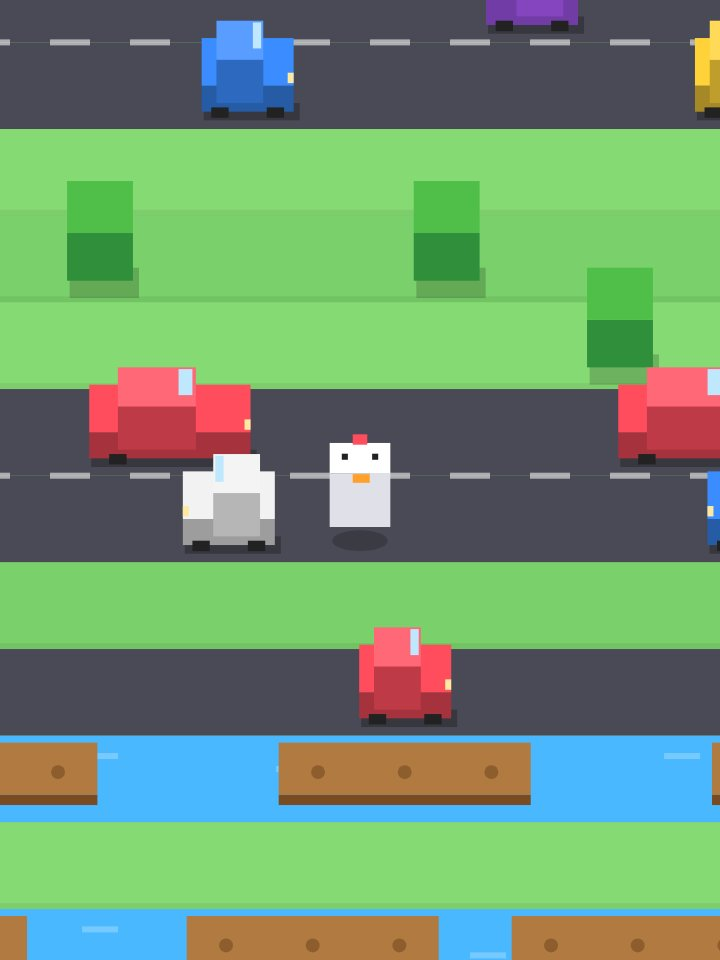
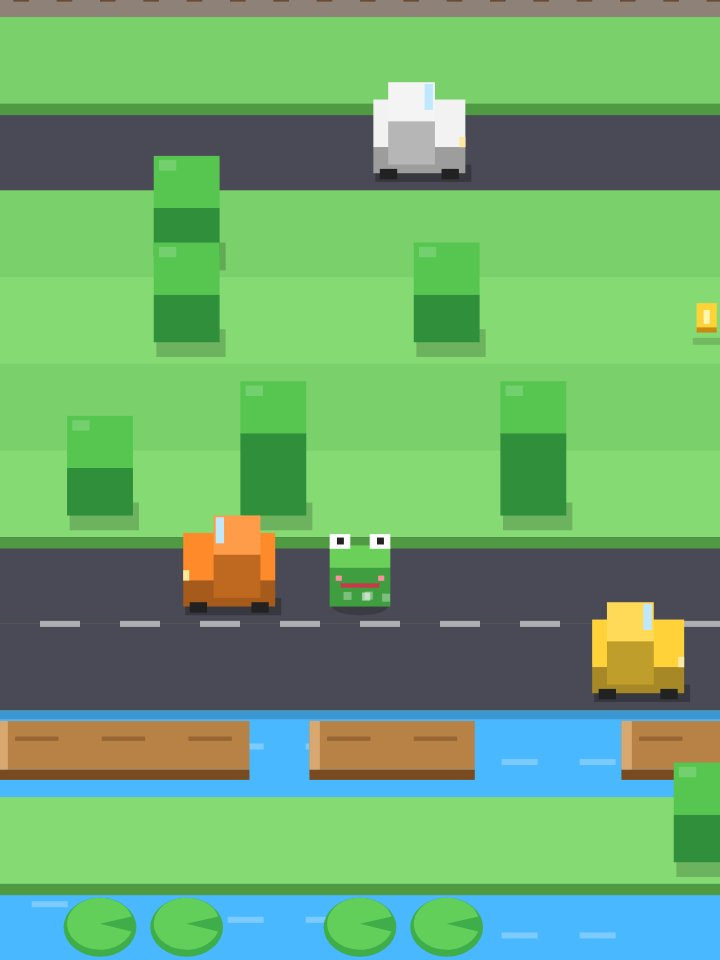
Hoppy Lane v2: coins + 6 unlockable characters, trains, lily pads, juice, landscape support
Claude-Session: https://claude.ai/code/session_01VuDiQoiwkAwkour2auYRX7

diff --git a/hoppy-lane/index.html b/hoppy-lane/index.html
@@ -10,63 +10,115 @@
 *{box-sizing:border-box;-webkit-tap-highlight-color:transparent;user-select:none;-webkit-user-select:none}
 html,body{margin:0;height:100%;background:#7ad06a;color:#fff;font-family:"Rubik","M PLUS Rounded 1c",system-ui,sans-serif;overflow:hidden;touch-action:none}
 #cv{position:fixed;inset:0;width:100%;height:100%;display:block}
-.over{position:fixed;inset:0;display:flex;flex-direction:column;align-items:center;justify-content:center;gap:14px;background:rgba(20,40,20,.45);text-align:center;padding:24px}
+.over{position:fixed;inset:0;display:flex;flex-direction:column;align-items:center;justify-content:center;gap:12px;background:rgba(20,40,20,.42);text-align:center;padding:24px}
 .over[hidden]{display:none}
 .over h1{margin:0;font-size:clamp(50px,15vw,84px);line-height:.92;font-weight:900;font-style:italic;color:#fff;text-shadow:0 5px 0 #2a6a2a,0 8px 18px rgba(0,0,0,.35)}
 .over h1 small{display:block;font-size:.62em;color:#ffe14a;text-shadow:0 5px 0 #a86a10,0 8px 18px rgba(0,0,0,.35)}
-.over p{margin:0;max-width:340px;line-height:1.6;font-size:16px;color:#fff;text-shadow:0 1px 4px rgba(0,0,0,.6)}
-.btn{font:inherit;font-weight:900;font-size:22px;letter-spacing:1px;border:3px solid #fff;border-radius:18px;padding:14px 40px;background:linear-gradient(#ffd04a,#ff9a2a);color:#fff;text-shadow:0 2px 0 #a8500a;box-shadow:0 6px 0 #a8500a;cursor:pointer;min-width:220px}
+.over h2{margin:0;font-size:30px;font-weight:900;font-style:italic;text-shadow:0 3px 0 #2a6a2a}
+.over p{margin:0;max-width:360px;line-height:1.6;font-size:15px;color:#fff;text-shadow:0 1px 4px rgba(0,0,0,.7)}
+.btn{font:inherit;font-weight:900;font-size:22px;letter-spacing:1px;border:3px solid #fff;border-radius:18px;padding:13px 36px;background:linear-gradient(#ffd04a,#ff9a2a);color:#fff;text-shadow:0 2px 0 #a8500a;box-shadow:0 6px 0 #a8500a;cursor:pointer;min-width:230px}
 .btn:active{transform:translateY(3px);box-shadow:0 2px 0 #a8500a}
+.btn.sub{font-size:17px;padding:10px 24px;background:linear-gradient(#5ac8ff,#2a86e0);text-shadow:0 2px 0 #1a4a8a;box-shadow:0 5px 0 #1a4a8a}
+.btn:disabled{opacity:.6}
+.coins{display:inline-flex;align-items:center;gap:6px;font-weight:900;font-size:20px;background:rgba(0,0,0,.3);padding:5px 14px;border-radius:999px}
+.coins i{width:16px;height:16px;background:#ffd23a;border:2px solid #c88a10;border-radius:3px;display:inline-block}
+#grid{display:grid;grid-template-columns:repeat(3,1fr);gap:10px;max-width:360px;width:100%}
+.ch{font:inherit;border:3px solid rgba(255,255,255,.5);border-radius:14px;background:rgba(255,255,255,.16);color:#fff;padding:6px 4px 8px;cursor:pointer;display:flex;flex-direction:column;align-items:center;gap:2px}
+.ch canvas{width:72px;height:72px}
+.ch b{font-size:14px}.ch span{font-size:12px;font-weight:700;opacity:.9}
+.ch.sel{border-color:#ffe14a;background:rgba(255,225,74,.25)}
+.ch.lock canvas{filter:brightness(.25)}
+.ch.shake{animation:sh .3s}@keyframes sh{25%{transform:translateX(-5px)}75%{transform:translateX(5px)}}
 </style>
 </head>
 <body>
 <canvas id="cv"></canvas>
-<div class="over" id="title"><h1>HOPPY<small>LANE</small></h1><p id="howto"></p><button class="btn" id="play" type="button">PLAY</button></div>
-<div class="over" id="end" hidden><h1 id="endT" style="font-size:clamp(64px,20vw,110px)">0</h1><p id="endP"></p><button class="btn" id="cont" type="button" hidden></button><button class="btn" id="again" type="button"></button></div>
+<div class="over" id="title"><h1>HOPPY<small>LANE</small></h1><span class="coins"><i></i><b class="cn">0</b></span><p id="howto"></p><button class="btn" id="play" type="button">PLAY</button><button class="btn sub" id="chars" type="button"></button></div>
+<div class="over" id="shop" hidden><h2 id="shopT"></h2><span class="coins"><i></i><b class="cn">0</b></span><div id="grid"></div><button class="btn" id="shopOk" type="button">OK</button></div>
+<div class="over" id="end" hidden><h1 id="endT" style="font-size:clamp(64px,20vw,110px)">0</h1><p id="endP"></p><button class="btn" id="cont" type="button" hidden></button><button class="btn" id="again" type="button"></button><button class="btn sub" id="chars2" type="button"></button></div>
 <script>
 "use strict";
 var JA=(navigator.language||'').slice(0,2)==='ja';
-var TX=JA?{how:'タップで前へぴょん！左右・後ろはスワイプ（矢印キー）。<br>車をよけて、川は丸太に乗ってわたろう。<br>ぐずぐずしてるとワシに連れていかれるよ！',play:'あそぶ',again:'もういちど',best:'ベスト',newb:'ベスト更新！',cont:'▶ 広告を見て続ける',car:'ひかれた！',water:'ドボン！',eagle:'ワシにつかまった！'}
- :{how:'Tap to hop forward! Swipe (or arrow keys) to go sideways or back.<br>Dodge the cars and ride the logs across rivers.<br>Dawdle too long and the eagle gets you!',play:'PLAY',again:'AGAIN',best:'BEST',newb:'New best!',cont:'▶ Watch ad: continue',car:'SPLAT!',water:'SPLASH!',eagle:'THE EAGLE GOT YOU!'};
+var TX=JA?{how:'タップで前へぴょん！左右・後ろはスワイプ（矢印キー）。<br>車と電車をよけて、川は丸太やハスの葉でわたろう。<br>コインを集めて新しいキャラをゲット！',play:'あそぶ',again:'もういちど',best:'ベスト',newb:'ベスト更新！',cont:'▶ 広告を見て続ける',car:'ひかれた！',train:'電車にひかれた！',water:'ドボン！',eagle:'ワシにつかまった！',chars:'キャラクター',got:'コイン',sel:'つかう',use:'つかってる',na:'広告を読み込めませんでした'}
+ :{how:'Tap to hop forward! Swipe (or arrow keys) to go sideways or back.<br>Dodge cars and trains, cross rivers on logs and lily pads.<br>Collect coins to unlock new characters!',play:'PLAY',again:'AGAIN',best:'BEST',newb:'New best!',cont:'▶ Watch ad: continue',car:'SPLAT!',train:'HIT BY A TRAIN!',water:'SPLASH!',eagle:'THE EAGLE GOT YOU!',chars:'CHARACTERS',got:'Coins',sel:'Select',use:'In use',na:'Ad not available'};
 var $=function(i){return document.getElementById(i);};
-$('howto').innerHTML=TX.how;$('play').textContent=TX.play;$('again').textContent=TX.again;$('cont').textContent=TX.cont;
+$('howto').innerHTML=TX.how;$('play').textContent=TX.play;$('again').textContent=TX.again;$('cont').textContent=TX.cont;$('chars').textContent=$('chars2').textContent=TX.chars;$('shopT').textContent=TX.chars;
 var store={get:function(k,f){try{var v=localStorage.getItem('hl-'+k);return v==null?f:JSON.parse(v);}catch(e){return f;}},set:function(k,v){try{localStorage.setItem('hl-'+k,JSON.stringify(v));}catch(e){}}};
-var best=store.get('best',0);
-var COLS=9,HALF=4,cv=$('cv'),g=cv.getContext('2d'),W,H,DPR,C;
-var rows={},pl,camRow=0,score=0,state='title',t=0,used=false,games=0,deathKind='',FX=[],eagleT=0;
-function fit(){DPR=Math.min(2,devicePixelRatio||1);W=innerWidth;H=innerHeight;cv.width=W*DPR;cv.height=H*DPR;C=Math.min(W/COLS,H/11);}
+var best=store.get('best',0),coins=store.get('coins',0),owned=store.get('own',['chick']),sel=store.get('sel','chick');
+var COLS=9,HALF=4,VH=6,cv=$('cv'),g=cv.getContext('2d'),W,H,DPR,C;
+var rows={},pl,camRow=0,score=0,state='title',t=0,used=false,games=0,deathKind='',FX=[],eagleT=0,shake=0,runCoins=0,queued=null;
+function fit(){DPR=Math.min(2,devicePixelRatio||1);W=innerWidth;H=innerHeight;cv.width=W*DPR;cv.height=H*DPR;C=Math.min(W/COLS,H/11);VH=Math.ceil(W/C/2)+1;}
 addEventListener('resize',fit);
+function showCoins(){[].forEach.call(document.querySelectorAll('.cn'),function(e){e.textContent=coins;});}
 // ---- audio ----
 var AC=null,MUTED=false;function tone(f,d,type,vol,slide){if(MUTED)return;try{AC=AC||new (window.AudioContext||window.webkitAudioContext)();var o=AC.createOscillator(),v=AC.createGain(),s=AC.currentTime;o.type=type||'square';o.frequency.setValueAtTime(f,s);o.frequency.exponentialRampToValueAtTime(f*(slide||1.4),s+d);v.gain.setValueAtTime(vol||0.04,s);v.gain.exponentialRampToValueAtTime(0.0001,s+d);o.connect(v);v.connect(AC.destination);o.start(s);o.stop(s+d);}catch(e){}}
+// ---- characters ----
+var CH=[{id:'chick',ja:'ひよこ',en:'Chick',cost:0,b:'#ffffff',f:'#e2e2ea'},{id:'frog',ja:'カエル',en:'Frog',cost:40,b:'#6ad05a',f:'#3f9f40'},{id:'pig',ja:'ブタ',en:'Pig',cost:80,b:'#ffb8cc',f:'#ec8eaa'},
+ {id:'panda',ja:'パンダ',en:'Panda',cost:120,b:'#ffffff',f:'#dcdce4'},{id:'cat',ja:'ネコ',en:'Cat',cost:160,b:'#ffaa50',f:'#e47e22'},{id:'robot',ja:'ロボ',en:'Robot',cost:250,b:'#b4c0d0',f:'#7f8b9e'}];
+var CHM={};CH.forEach(function(c){CHM[c.id]=c;});if(!CHM[sel])sel='chick';
+function R(x,y,w,h,c){g.fillStyle=c;g.fillRect(x,y,w,h);}
+function tri(a,b,c2,d,e,f,col){g.fillStyle=col;g.beginPath();g.moveTo(a,b);g.lineTo(c2,d);g.lineTo(e,f);g.closePath();g.fill();}
+function drawChar(id,x,y,s,dir,sq){var c=CHM[id]||CH[0],bw=s*0.7,bx=x+s*0.15,gy=y+s*0.8,h=s*0.5*sq,d=s*0.26,ty=gy-h-d,fy=gy-h;
+  R(bx,fy,bw,h,c.f);R(bx,ty,bw,d,c.b);
+  var ox=dir===1?bw*0.12:dir===3?-bw*0.12:0,e=s*0.08,ey=fy+h*0.16,ex1=bx+bw*0.2+ox,ex2=bx+bw*0.8-e+ox;
+  function eyes(col){R(ex1,ey,e,e,col);R(ex2,ey,e,e,col);}
+  switch(c.id){
+  case 'chick':R(bx+bw*0.36,ty-s*0.1,bw*0.28,s*0.12,'#ff4d5e');eyes('#222');R(bx+bw*0.36+ox*1.4,fy+h*0.42,bw*0.28,s*0.1,'#ffa02a');break;
+  case 'frog':R(bx,ty-s*0.13,bw*0.34,s*0.17,'#fff');R(bx+bw*0.66,ty-s*0.13,bw*0.34,s*0.17,'#fff');R(bx+bw*0.12+ox*0.5,ty-s*0.09,s*0.08,s*0.08,'#222');R(bx+bw*0.78+ox*0.5,ty-s*0.09,s*0.08,s*0.08,'#222');R(bx+bw*0.18+ox,fy+h*0.4,bw*0.64,s*0.05,'#c83a4a');R(bx+bw*0.1,fy+h*0.2,bw*0.1,s*0.06,'#ff8fa0');R(bx+bw*0.8,fy+h*0.2,bw*0.1,s*0.06,'#ff8fa0');break;
+  case 'pig':R(bx,ty-s*0.08,bw*0.24,s*0.11,'#ec8eaa');R(bx+bw*0.76,ty-s*0.08,bw*0.24,s*0.11,'#ec8eaa');eyes('#222');R(bx+bw*0.3+ox*1.3,fy+h*0.38,bw*0.4,s*0.16,'#ff92b4');R(bx+bw*0.38+ox*1.3,fy+h*0.46,s*0.05,s*0.06,'#a04060');R(bx+bw*0.56+ox*1.3,fy+h*0.46,s*0.05,s*0.06,'#a04060');break;
+  case 'panda':R(bx-s*0.02,ty-s*0.09,bw*0.26,s*0.13,'#222');R(bx+bw*0.78,ty-s*0.09,bw*0.26,s*0.13,'#222');R(ex1-s*0.04,ey-s*0.03,s*0.16,s*0.15,'#222');R(ex2-s*0.04,ey-s*0.03,s*0.16,s*0.15,'#222');R(ex1+s*0.02,ey+s*0.01,s*0.05,s*0.05,'#fff');R(ex2+s*0.02,ey+s*0.01,s*0.05,s*0.05,'#fff');R(bx+bw*0.44+ox,fy+h*0.5,s*0.08,s*0.06,'#222');R(bx,fy+h*0.75,bw,h*0.25,'#333');break;
+  case 'cat':tri(bx,ty+1,bx+bw*0.3,ty+1,bx+bw*0.08,ty-s*0.16,c.f);tri(bx+bw,ty+1,bx+bw*0.7,ty+1,bx+bw*0.92,ty-s*0.16,c.f);R(bx+bw*0.3,ty,s*0.06,d,'#e47e22');R(bx+bw*0.6,ty,s*0.06,d,'#e47e22');eyes('#2a7a3a');R(bx+bw*0.45+ox,fy+h*0.4,s*0.07,s*0.05,'#ff7a9a');R(bx+bw*0.05,fy+h*0.48,bw*0.18,s*0.025,'#fff');R(bx+bw*0.77,fy+h*0.48,bw*0.18,s*0.025,'#fff');break;
+  case 'robot':R(bx+bw*0.48,ty-s*0.22,s*0.04,s*0.22,'#555');R(bx+bw*0.43,ty-s*0.29,s*0.12,s*0.1,(Math.floor(t*3)%2)?'#ff4d5e':'#ff9aa8');R(bx+bw*0.1+ox,ey-s*0.03,bw*0.8,s*0.15,'#222');R(ex1,ey,e,e*0.8,'#4af0ff');R(ex2,ey,e,e*0.8,'#4af0ff');R(bx+bw*0.25,fy+h*0.55,bw*0.5,s*0.05,'#556');break;}}
 // ---- lanes ----
-var CARC=['#ff4d5e','#3a8cff','#ffd23a','#b05cff','#ff8a2a','#f2f2f2'];
-function makeRow(r){if(rows[r])return rows[r];var row;if(r<3){row={type:'grass',trees:r<0?allTrees():edgeTrees()};}
-  else{var prev=rows[r-1],roll=Math.random(),diff=Math.min(1,r/120);
-    if(prev&&prev.type==='water'&&prev.run>=3)roll=0;if(prev&&prev.type==='road'&&prev.run>=4)roll=0;
-    var type=roll<0.32?'grass':roll<0.32+0.43?'road':'water';row={type:type,run:(prev&&prev.type===type?prev.run+1:1)};
-    if(type==='grass')row.trees=randTrees();
-    if(type==='road'){var dir=Math.random()<0.5?1:-1,sp=(1.6+Math.random()*1.6+diff*2.2)*dir,w=Math.random()<0.25?2:1.2,n=Math.max(1,Math.round(2+Math.random()*1.5-(w>1.5?1:0))),gap=(COLS+6)/n;row.speed=sp;row.objs=[];for(var i=0;i<n;i++)row.objs.push({x:-HALF-3+i*gap+Math.random()*gap*0.4,w:w,col:CARC[Math.floor(Math.random()*CARC.length)]});}
-    if(type==='water'){var d2=prev&&prev.type==='water'?-Math.sign(prev.speed):(Math.random()<0.5?1:-1),sp2=(0.9+Math.random()*1.1+diff*0.8)*d2,n2=3+Math.floor(Math.random()*2),gap2=(COLS+6)/n2;row.speed=sp2;row.objs=[];for(var j=0;j<n2;j++)row.objs.push({x:-HALF-3+j*gap2,w:2+Math.floor(Math.random()*2)});}}
+var CARC=['#ff4d5e','#3a8cff','#ffd23a','#b05cff','#ff8a2a','#f2f2f2','#2ac4a0'];
+function span(){return 2*VH+6;}
+function makeRow(r){if(rows[r])return rows[r];var row,prev=rows[r-1];
+  if(r<3){row={type:'grass',trees:r<0?allTrees():edgeTrees()};}
+  else{var roll=Math.random(),diff=Math.min(1,r/150),type;
+    if(roll<0.3)type='grass';else if(roll<0.68)type='road';else if(roll<0.9||r<12)type='water';else type='rail';
+    if(prev&&prev.type===type&&((type==='water'&&prev.run>=3)||(type==='road'&&prev.run>=4)||type==='rail'))type='grass';
+    row={type:type,run:(prev&&prev.type===type?prev.run+1:1)};
+    if(type==='grass'){row.trees=randTrees();if(prev&&prev.pads)prev.objs.forEach(function(o){delete row.trees[o.x];});if(Math.random()<0.28)row.coin=freeCol(row.trees);}
+    if(type==='road'){var dir=Math.random()<0.5?1:-1,sp=(1.5+Math.random()*1.6+diff*2.4)*dir,w=Math.random()<0.22?2.1:1.2,n=Math.max(1,Math.round(2+Math.random()*1.5-(w>1.5?1:0))),gp=span()/n;row.speed=sp;row.objs=[];for(var i=0;i<n;i++)row.objs.push({x:-VH-3+i*gp+Math.random()*gp*0.4,w:w,col:CARC[Math.floor(Math.random()*CARC.length)]});if(Math.random()<0.15)row.coin=Math.floor(Math.random()*COLS)-HALF;}
+    if(type==='water'){if(!(prev&&prev.pads)&&Math.random()<0.3){row.pads=true;row.speed=0;row.objs=[];var cs=[],m=3+Math.floor(Math.random()*3);while(cs.length<m){var c=Math.floor(Math.random()*COLS)-HALF;if(cs.indexOf(c)<0&&!(prev&&prev.trees&&prev.trees[c]&&cs.length<1))cs.push(c);}cs.forEach(function(c){row.objs.push({x:c,w:1,pad:true});});}
+      else{var d2=prev&&prev.type==='water'&&prev.speed?-Math.sign(prev.speed):(Math.random()<0.5?1:-1),sp2=(0.9+Math.random()*1.1+diff*0.9)*d2,n2=Math.max(3,Math.round(span()/5))+Math.floor(Math.random()*2),gp2=span()/n2;row.speed=sp2;row.objs=[];for(var j=0;j<n2;j++)row.objs.push({x:-VH-3+j*gp2,w:2+Math.floor(Math.random()*2)});}}
+    if(type==='rail'){row.dir=Math.random()<0.5?1:-1;row.tr={on:false,x:0,w:8};row.tt=1.5+Math.random()*4;}}
   rows[r]=row;return row;}
 function allTrees(){var a={};for(var c=-HALF;c<=HALF;c++)a[c]=1;return a;}
 function edgeTrees(){var a={};a[-HALF]=1;a[HALF]=1;return a;}
-function randTrees(){var a={},n=Math.floor(Math.random()*4);for(var i=0;i<n;i++){var c=-HALF+Math.floor(Math.random()*COLS);if(Math.abs(c)>0||Math.random()<0.4)a[c]=1;}return a;}
+function randTrees(){var a={},n=Math.floor(Math.random()*4);for(var i=0;i<n;i++){var c=-HALF+Math.floor(Math.random()*COLS);if(c!==0||Math.random()<0.4)a[c]=1;}return a;}
+function freeCol(tr){for(var k=0;k<20;k++){var c=Math.floor(Math.random()*COLS)-HALF;if(!tr[c])return c;}return undefined;}
 // ---- game ----
-function reset(){rows={};for(var r=-6;r<30;r++)makeRow(r);pl={c:0,r:0,x:0,y:0,fx:0,fy:0,hop:0,dir:0,dead:false,ride:0};camRow=0;score=0;FX=[];used=false;eagleT=0;state='play';}
-function hop(dc,dr){if(state!=='play'||pl.hop>0)return;var nc=pl.c+dc,nr=pl.r+dr;if(nc<-HALF||nc>HALF){return;}var row=makeRow(nr);if(row.type==='grass'&&row.trees[Math.round(nc)]){pl.dir=dc?(dc>0?1:3):(dr>0?0:2);tone(160,0.05,'square',0.03,0.8);return;}
-  pl.fx=pl.x;pl.fy=pl.r;pl.c=nc;pl.r=nr;pl.hop=1;pl.dir=dc?(dc>0?1:3):(dr>0?0:2);tone(dr>0?520:420,0.06,'square',0.035,1.5);if(nr>score){score=nr;}for(var r=nr;r<nr+25;r++)makeRow(r);}
-function die(kind){if(pl.dead)return;pl.dead=true;deathKind=kind;state='dead';games++;if(kind==='car'){tone(120,0.3,'sawtooth',0.08,0.5);for(var i=0;i<16;i++){var a=Math.random()*6.283;FX.push({x:pl.x,y:pl.r,vx:Math.cos(a)*3,vy:Math.sin(a)*3,l:0.6,c:i%2?'#fff':'#ffe14a'});}}
-  else if(kind==='water'){tone(300,0.4,'sine',0.08,0.4);for(var j=0;j<14;j++){var b=Math.random()*6.283;FX.push({x:pl.x,y:pl.r,vx:Math.cos(b)*2,vy:Math.sin(b)*2,l:0.6,c:'#bfe8ff'});}}else{tone(880,0.5,'sawtooth',0.06,0.5);}
+function reset(){rows={};for(var r=-8;r<30;r++)makeRow(r);pl={c:0,r:0,x:0,y:0,fx:0,fy:0,hop:0,dir:0,dead:false,land:0};camRow=0;score=0;FX=[];used=false;eagleT=0;runCoins=0;queued=null;shake=0;state='play';}
+function hop(dc,dr){if(state!=='play'||pl.dead)return;if(pl.hop>0){queued=[dc,dr];return;}var nc=pl.c+dc,nr=pl.r+dr;pl.dir=dc?(dc>0?1:3):(dr>0?0:2);if(dc&&(Math.round(nc)<-HALF||Math.round(nc)>HALF))return;var row=makeRow(nr);
+  if(row.type==='grass'&&row.trees[Math.round(nc)]){tone(160,0.05,'square',0.03,0.8);pl.land=0.6;return;}
+  if(makeRow(pl.r).type!=='water')nc=Math.round(nc);
+  pl.fx=pl.x;pl.fy=pl.y;pl.c=nc;pl.r=nr;pl.hop=1;tone(dr>0?520:420,0.06,'square',0.035,1.5);if(nr>score)score=nr;for(var r=nr;r<nr+25;r++)makeRow(r);}
+function landed(){var row=makeRow(pl.r);pl.land=1;if(row.type==='water'){if(objAt(row,pl.x)){tone(260,0.06,'sine',0.04,1.2);}}else{pl.x=Math.round(pl.x);pl.c=pl.x;for(var i=0;i<5;i++)FX.push({x:pl.x+(Math.random()-0.5)*0.6,y:pl.r-0.2,vx:(Math.random()-0.5)*1.5,vy:Math.random()*0.8,l:0.3,c:'rgba(255,255,255,.7)',s:4});}
+  if(row.coin!==undefined&&row.coin===Math.round(pl.x)){row.coin=undefined;coins++;runCoins++;store.set('coins',coins);tone(990,0.08,'square',0.04,1.6);setTimeout(function(){tone(1320,0.1,'square',0.035,1.3);},70);FX.push({x:pl.x,y:pl.r+0.6,vx:0,vy:1.6,l:0.7,txt:'+1'});}
+  if(queued){var q=queued;queued=null;hop(q[0],q[1]);}}
+function die(kind){if(pl.dead)return;pl.dead=true;deathKind=kind;state='dead';games++;queued=null;
+  if(kind==='car'||kind==='train'){shake=0.35;tone(120,0.3,'sawtooth',0.08,0.5);for(var i=0;i<18;i++){var a=Math.random()*6.283;FX.push({x:pl.x,y:pl.y,vx:Math.cos(a)*3.5,vy:Math.sin(a)*3.5,l:0.6,c:i%2?'#fff':(CHM[sel].f),s:6});}}
+  else if(kind==='water'){tone(300,0.4,'sine',0.08,0.4);FX.push({x:pl.x,y:pl.r,ring:1,l:0.8});for(var j=0;j<14;j++){var b=Math.random()*6.283;FX.push({x:pl.x,y:pl.r,vx:Math.cos(b)*2,vy:Math.abs(Math.sin(b))*3,l:0.6,c:'#dff4ff',s:5});}}else{tone(880,0.5,'sawtooth',0.06,0.5);}
   var nb=score>best;if(nb){best=score;store.set('best',best);}
-  setTimeout(function(){var show=function(){$('endT').textContent=score;$('endP').innerHTML=TX[kind]+'<br>'+(nb?TX.newb:TX.best+' '+best);$('cont').hidden=!(CG&&!used&&score>=15);$('cont').disabled=false;$('end').hidden=false;};if(games%2===0)cgAd('midgame',show,show);else show();},900);}
+  setTimeout(function(){var show=function(){showCoins();$('endT').textContent=score;$('endP').innerHTML=TX[kind]+'<br>'+(nb?TX.newb:TX.best+' '+best)+(runCoins?'<br>'+TX.got+' +'+runCoins:'');$('cont').hidden=!(CG&&!used&&score>=15);$('cont').disabled=false;$('cont').textContent=TX.cont;$('end').hidden=false;};if(games%2===0)cgAd('midgame',show,show);else show();},950);}
 $('play').onclick=function(){$('title').hidden=true;reset();};
 $('again').onclick=function(){$('end').hidden=true;reset();};
-$('cont').onclick=function(){var b=this;b.disabled=true;cgAd('rewarded',function(){used=true;var r=pl.r;while(makeRow(r).type!=='grass')r--;var c=0;var tr=makeRow(r).trees;while(tr[c])c++;pl={c:c,r:r,x:c,y:r,fx:c,fy:r,hop:0,dir:0,dead:false};camRow=Math.min(camRow,r-1);eagleT=0;state='play';$('end').hidden=true;},function(){b.textContent=JA?'広告を読み込めませんでした':'Ad not available';});};
+$('cont').onclick=function(){var b=this;b.disabled=true;cgAd('rewarded',function(){used=true;var r=pl.r;while(makeRow(r).type!=='grass')r--;var tr=makeRow(r).trees,c=0;if(tr[c]){c=freeCol(tr)||0;}pl={c:c,r:r,x:c,y:r,fx:c,fy:r,hop:0,dir:0,dead:false,land:0};camRow=Math.min(camRow,r-1);eagleT=0;state='play';$('end').hidden=true;},function(){b.textContent=TX.na;});};
+// ---- shop ----
+var shopFrom='title';
+function openShop(from){shopFrom=from;$(from).hidden=true;buildShop();$('shop').hidden=false;}
+function buildShop(){showCoins();var gr=$('grid');gr.innerHTML='';CH.forEach(function(c){var own=owned.indexOf(c.id)>=0,b=document.createElement('button');b.type='button';b.className='ch'+(sel===c.id?' sel':'')+(own?'':' lock');
+  var cvs=document.createElement('canvas');cvs.width=144;cvs.height=144;var o=g;g=cvs.getContext('2d');g.setTransform(1,0,0,1,0,0);drawChar(c.id,12,22,120,0,1);g=o;
+  b.appendChild(cvs);var nm=document.createElement('b');nm.textContent=JA?c.ja:c.en;b.appendChild(nm);var sp=document.createElement('span');sp.textContent=own?(sel===c.id?TX.use:TX.sel):('● '+c.cost);b.appendChild(sp);
+  b.onclick=function(){if(own){sel=c.id;store.set('sel',sel);tone(660,0.06,'square',0.03,1.3);buildShop();return;}if(coins>=c.cost){coins-=c.cost;owned.push(c.id);sel=c.id;store.set('coins',coins);store.set('own',owned);store.set('sel',sel);tone(880,0.1,'square',0.04,1.5);setTimeout(function(){tone(1320,0.15,'square',0.04,1.2);},90);buildShop();}else{b.classList.remove('shake');void b.offsetWidth;b.classList.add('shake');tone(150,0.08,'square',0.03,0.8);}};gr.appendChild(b);});}
+$('chars').onclick=function(){openShop('title');};$('chars2').onclick=function(){openShop('end');};
+$('shopOk').onclick=function(){$('shop').hidden=true;$(shopFrom).hidden=false;showCoins();};
 // ---- input ----
-var sx,sy,st,down=false;
-cv.addEventListener('pointerdown',function(e){e.preventDefault();down=true;sx=e.clientX;sy=e.clientY;st=performance.now();});
+var sx,sy,down=false;
+cv.addEventListener('pointerdown',function(e){e.preventDefault();down=true;sx=e.clientX;sy=e.clientY;});
 cv.addEventListener('pointerup',function(e){if(!down)return;down=false;var dx=e.clientX-sx,dy=e.clientY-sy;if(Math.max(Math.abs(dx),Math.abs(dy))<24){hop(0,1);return;}if(Math.abs(dx)>Math.abs(dy))hop(dx>0?1:-1,0);else hop(0,dy<0?1:-1);});
-addEventListener('keydown',function(e){var m={ArrowUp:[0,1],KeyW:[0,1],Space:[0,1],ArrowDown:[0,-1],KeyS:[0,-1],ArrowLeft:[-1,0],KeyA:[-1,0],ArrowRight:[1,0],KeyD:[1,0]}[e.code];if(m){e.preventDefault();hop(m[0],m[1]);}});
+addEventListener('keydown',function(e){var m={ArrowUp:[0,1],KeyW:[0,1],Space:[0,1],ArrowDown:[0,-1],KeyS:[0,-1],ArrowLeft:[-1,0],KeyA:[-1,0],ArrowRight:[1,0],KeyD:[1,0]}[e.code];if(m){e.preventDefault();if(!e.repeat)hop(m[0],m[1]);}});
 // ---- CrazyGames SDK ----
 var CG=null,cgOn=null;
 (function(){var h=location.hostname,q=location.search;if(!/crazygames/.test(h)&&q.indexOf('cg=1')<0&&q.indexOf('crazygames_sandbox')<0)return;var sc=document.createElement('script');sc.src='https://sdk.crazygames.com/crazygames-sdk-v3.js';
@@ -77,45 +129,66 @@ function cgAd(kind,done,fail){if(!CG){if(fail)fail();return;}var st0=state,end=f
 // ---- draw ----
 function sxp(x){return W/2+x*C;}function syp(r){return H*0.68-(r-camRow)*C;}
 function shade(c,f){var a=[1,3,5].map(function(i){return parseInt(c.substr(i,2),16);});return 'rgb('+a.map(function(v){return Math.round(f>0?v+(255-v)*f:v*(1+f));}).join(',')+')';}
-function block(x,y,w,d,h,top,front){// x,y = screen top-left of footprint (top face), w,d footprint px, h height px
-  g.fillStyle=front;g.fillRect(x,y-h+d,w,h);g.fillStyle=top;g.fillRect(x,y-h,w,d);}
-function drawRow(r){var row=rows[r];if(!row)return;var y=syp(r)-C/2,x0=sxp(-HALF-0.5);
-  if(row.type==='grass'){g.fillStyle=r%2?'#7ad06a':'#86da74';g.fillRect(0,y,W,C);g.fillStyle='rgba(0,0,0,.06)';g.fillRect(0,y+C-3,W,3);}
-  else if(row.type==='road'){g.fillStyle='#4a4a56';g.fillRect(0,y,W,C);var nx=rows[r+1];if(nx&&nx.type==='road'){g.fillStyle='rgba(255,255,255,.55)';for(var xx=((t*0)%40)-40;xx<W;xx+=40)g.fillRect(xx,y-1.5,20,3);}}
-  else{g.fillStyle='#4ab8ff';g.fillRect(0,y,W,C);g.fillStyle='rgba(255,255,255,.25)';for(var k=0;k<5;k++){var wx=((k*97+t*20*Math.sign(row.speed||1))%(W+60)+W+60)%(W+60)-30;g.fillRect(wx,y+C*(0.2+0.15*(k%3)),18,3);}}
-  // dark outside area
-  g.fillStyle='rgba(0,0,0,.25)';g.fillRect(0,y,Math.max(0,x0),C);g.fillRect(sxp(HALF+0.5),y,W,C);}
-function drawRowObjs(r){var row=rows[r];if(!row)return;var y=syp(r)-C/2;
-  if(row.type==='grass'){Object.keys(row.trees).forEach(function(k){var c=+k,x=sxp(c)-C/2;g.fillStyle='rgba(0,0,0,.18)';g.fillRect(x+C*0.15,y+C*0.6,C*0.8,C*0.35);block(x+C*0.38,y+C*0.55,C*0.24,C*0.18,C*0.25,'#a06a3a','#7a4a20');block(x+C*0.12,y+C*0.15,C*0.76,C*0.6,C*0.55,'#4fbf4a','#2f8f3a');});}
-  if(row.type==='water'){row.objs.forEach(function(o){var x=sxp(o.x)-C/2;block(x+2,y+C*0.2,o.w*C-4,C*0.6,C*0.12,'#b07a40','#7a4a20');g.fillStyle='rgba(90,50,20,.4)';for(var i=0;i<o.w;i++){g.beginPath();g.arc(x+C*(i+0.5),y+C*0.42,C*0.08,0,7);g.fill();}});}
-  if(row.type==='road'){row.objs.forEach(function(o){var x=sxp(o.x)-C/2,w=o.w*C,dir=row.speed>0;g.fillStyle='rgba(0,0,0,.25)';g.fillRect(x+4,y+C*0.7,w-4,C*0.2);block(x+3,y+C*0.25,w-6,C*0.55,C*0.3,o.col,shade(o.col,-0.35));block(x+w*(dir?0.2:0.35),y+C*0.25,w*0.45,C*0.45,C*0.5,shade(o.col,0.15),shade(o.col,-0.25));g.fillStyle='#bfe8ff';g.fillRect(x+w*(dir?0.55:0.37),y+C*0.25-C*0.48,w*0.08,C*0.3);g.fillStyle='#222';g.fillRect(x+w*0.15,y+C*0.75,C*0.2,C*0.12);g.fillRect(x+w*0.85-C*0.2,y+C*0.75,C*0.2,C*0.12);g.fillStyle='#ffe9a0';g.fillRect(dir?x+w-6:x+3,y+C*0.35,3,C*0.12);});}}
-function drawPlayer(){var k=pl.hop,x=sxp(pl.x)-C/2,yr=pl.dead&&deathKind==='water'?pl.r:pl.y,y=syp(yr)-C/2,jump=Math.sin((1-k)*Math.PI)*C*0.35*(k>0?1:0);if(pl.dead&&deathKind==='eagle')return;
-  var sq=pl.dead&&deathKind==='car'?0.25:1;if(pl.dead&&deathKind==='water'){g.globalAlpha=0.5;}
-  g.fillStyle='rgba(0,0,0,.2)';g.beginPath();g.ellipse(x+C/2,y+C*0.75,C*0.32,C*0.12,0,0,7);g.fill();var bw=C*0.7,bx=x+C*0.15,by=y+C*0.3-jump,bh=C*0.62*sq;
-  block(bx,by+C*0.5-bh*0.9,bw,C*0.35,bh,'#ffffff','#e0e0e8');g.fillStyle='#ff4d5e';g.fillRect(bx+bw*0.38,by+C*0.5-bh*0.9-bh-C*0.1,bw*0.24,C*0.12);
-  var fx=pl.dir===1?bw*0.8:pl.dir===3?-bw*0.12:bw*0.38;g.fillStyle='#ffa02a';g.fillRect(bx+fx,by+C*0.5-bh*0.9-bh*0.5+(pl.dir===2?-C*0.1:C*0.05),bw*0.28,C*0.1);g.fillStyle='#222';g.fillRect(bx+bw*0.2,by+C*0.5-bh*0.9-bh*0.8,C*0.07,C*0.07);g.fillRect(bx+bw*0.7,by+C*0.5-bh*0.9-bh*0.8,C*0.07,C*0.07);g.globalAlpha=1;}
-function draw(){g.setTransform(DPR,0,0,DPR,0,0);g.fillStyle='#7ad06a';g.fillRect(0,0,W,H);if(!pl){return;}
-  var top=Math.ceil(camRow+H*0.68/C+2),bot=Math.floor(camRow-(H*0.32)/C-2);for(var r=top;r>=bot;r--){makeRow(r);drawRow(r);}
-  for(var r2=top;r2>=bot;r2--){drawRowObjs(r2);if(Math.round(pl.y)===r2||(pl.dead&&pl.r===r2&&r2===Math.round(pl.y)))drawPlayer();}
-  if(Math.round(pl.y)>top||Math.round(pl.y)<bot)drawPlayer();
-  FX.forEach(function(f){g.globalAlpha=Math.min(1,f.l*2);g.fillStyle=f.c;g.fillRect(sxp(f.x)-3,syp(f.y)-3,6,6);});g.globalAlpha=1;
-  // eagle
-  if(pl.dead&&deathKind==='eagle'){var ek=Math.min(1,eagleT/0.8),ex=sxp(pl.x),ey=syp(pl.r)-H*(1-ek)*0.8;g.fillStyle='#5a3a20';g.beginPath();g.moveTo(ex-C*1.4,ey);g.lineTo(ex,ey-C*0.4);g.lineTo(ex+C*1.4,ey);g.lineTo(ex,ey+C*0.3);g.closePath();g.fill();g.fillStyle='#fff';g.fillRect(ex-C*0.2,ey-C*0.5,C*0.4,C*0.35);g.fillStyle='#ffd23a';g.fillRect(ex-C*0.05,ey-C*0.25,C*0.15,C*0.12);}
-  if(state!=='title'){g.font='900 '+Math.round(Math.min(56,W*0.13))+'px Rubik,sans-serif';g.textAlign='left';g.lineWidth=6;g.strokeStyle='rgba(0,0,0,.35)';g.strokeText(String(score),16,Math.max(60,H*0.08));g.fillStyle='#fff';g.fillText(String(score),16,Math.max(60,H*0.08));g.font='800 15px Rubik,sans-serif';g.lineWidth=4;g.strokeText('★ '+TX.best+' '+best,18,Math.max(84,H*0.08+24));g.fillText('★ '+TX.best+' '+best,18,Math.max(84,H*0.08+24));}}
-function objAt(row,x){for(var i=0;i<row.objs.length;i++){var o=row.objs[i];if(x>o.x-0.5+0.15&&x<o.x-0.5+o.w-0.15)return o;}return null;}
-function tick(dt){t+=dt;FX.forEach(function(f){f.l-=dt;f.x+=f.vx*dt;f.y+=f.vy*dt;});FX=FX.filter(function(f){return f.l>0;});if(!pl)return;
-  // move lane objects
-  for(var r=Math.floor(camRow-6);r<camRow+16;r++){var row=rows[r];if(!row||!row.objs)continue;row.objs.forEach(function(o){o.x+=row.speed*dt;var span=COLS+6;if(row.speed>0&&o.x>HALF+3)o.x-=span;if(row.speed<0&&o.x+o.w<-HALF-3)o.x+=span;});}
-  if(pl.dead){if(deathKind==='eagle')eagleT+=dt;return;}if(state!=='play')return;
-  if(pl.hop>0){pl.hop=Math.max(0,pl.hop-dt/0.12);var e=1-pl.hop;pl.x=pl.fx+(pl.c-pl.fx)*e;pl.y=pl.fy+(pl.r-pl.fy)*e;if(pl.hop===0){pl.x=pl.c;pl.y=pl.r;}}
-  var row=makeRow(pl.r);
-  if(pl.hop===0&&row.type==='water'){var o=objAt(row,pl.x);if(!o){die('water');return;}pl.x+=row.speed*dt;pl.c=pl.x;if(pl.x<-HALF-0.5||pl.x>HALF+0.5){die('water');return;}}
-  else if(pl.hop===0&&row.type!=='water'){var rc=Math.round(pl.x);if(Math.abs(pl.x-rc)>0.01&&row.type!=='water'){pl.x+=(rc-pl.x)*Math.min(1,dt*20);pl.c=rc;}}
-  if(row.type==='road'&&pl.hop<0.5){for(var i=0;i<row.objs.length;i++){var ob=row.objs[i];if(pl.x>ob.x-0.5-0.3&&pl.x<ob.x-0.5+ob.w+0.3-0.6){die('car');return;}}}
-  // camera
-  var target=pl.r-1;camRow+=(Math.max(target,camRow)-camRow)*Math.min(1,dt*4);camRow+=dt*Math.min(0.55,0.25+score/400);if(pl.r<camRow-3.2){die('eagle');}}
+function block(x,y,w,d,h,tp,front){g.fillStyle=front;g.fillRect(x,y-h+d,w,h);g.fillStyle=tp;g.fillRect(x,y-h,w,d);}
+function drawGround(r){var row=rows[r];if(!row)return;var y=syp(r)-C/2;
+  if(row.type==='grass'){R(0,y,W,C,r%2?'#7ad06a':'#86da74');}
+  else if(row.type==='road'){R(0,y,W,C,'#4a4a56');var nx=rows[r+1];if(nx&&nx.type==='road'){g.fillStyle='rgba(255,255,255,.55)';for(var xx=-40+(W/2%40);xx<W;xx+=40)g.fillRect(xx,y-1.5,20,3);}}
+  else if(row.type==='rail'){R(0,y,W,C,'#8d8178');g.fillStyle='#6a4a32';for(var tx=(W/2)%(C*0.5)-C*0.5;tx<W;tx+=C*0.5)g.fillRect(tx,y+C*0.18,C*0.18,C*0.64);R(0,y+C*0.26,W,C*0.07,'#d4d8e0');R(0,y+C*0.66,W,C*0.07,'#d4d8e0');}
+  else{R(0,y,W,C,'#4ab8ff');g.fillStyle='rgba(255,255,255,.28)';for(var k=0;k<7;k++){var wx=((k*137+t*24*Math.sign(row.speed||0.2))%(W+60)+W+60)%(W+60)-30;g.fillRect(wx,y+C*(0.2+0.18*(k%3)),18,3);}}}
+function drawEdges(r){var row=rows[r],below=rows[r-1];if(!row)return;var y=syp(r)-C/2;
+  if(row.type==='grass'&&below&&below.type!=='grass')R(0,y+C,W,C*0.13,'#4f9a43');
+  if(row.type==='water'&&below&&below.type==='grass'){}
+  if(row.type!=='grass'&&row.type!=='water'&&below&&below.type==='water')R(0,y+C,W,C*0.1,'rgba(0,0,0,.18)');
+  g.fillStyle='rgba(0,0,0,.28)';g.fillRect(0,y,Math.max(0,sxp(-HALF-0.5)),C);g.fillRect(sxp(HALF+0.5),y,W,C);}
+function drawObjs(r){var row=rows[r];if(!row)return;var y=syp(r)-C/2;
+  if(row.type==='grass'){Object.keys(row.trees).forEach(function(k){var c=+k,x=sxp(c)-C/2,tall=(c*7+r*13)%3===0;g.fillStyle='rgba(0,0,0,.18)';g.fillRect(x+C*0.15,y+C*0.6,C*0.8,C*0.32);block(x+C*0.38,y+C*0.55,C*0.24,C*0.18,C*0.25,'#a06a3a','#7a4a20');block(x+C*0.12,y+C*0.15,C*0.76,C*0.6,C*(tall?0.95:0.55),'#56c650','#2f8f3a');g.fillStyle='rgba(255,255,255,.18)';g.fillRect(x+C*0.18,y+C*0.15-C*(tall?0.95:0.55)+C*0.05,C*0.2,C*0.12);});
+    for(var c2=-VH;c2<=VH;c2++){if(c2>=-HALF&&c2<=HALF)continue;if((c2*31+r*17)%4===0){var x2=sxp(c2)-C/2;block(x2+C*0.12,y+C*0.15,C*0.76,C*0.6,C*0.55,'#4aa846','#2a7a32');}}}
+  if(row.type==='water'){row.objs.forEach(function(o){var x=sxp(o.x)-C/2;if(o.pad){g.fillStyle='#3fae4a';g.beginPath();g.ellipse(x+C/2,y+C/2,C*0.42,C*0.34,0,0,7);g.fill();g.fillStyle='#62cf5a';g.beginPath();g.ellipse(x+C/2,y+C*0.46,C*0.38,C*0.3,0,0.3,6.0);g.lineTo(x+C/2,y+C*0.46);g.fill();return;}
+    block(x+2,y+C*0.24,o.w*C-4,C*0.56,C*0.12,'#b88246','#7a4a20');g.fillStyle='rgba(90,50,20,.35)';for(var i=0;i<o.w;i++){g.fillRect(x+C*(i+0.25),y+C*0.3,C*0.5,C*0.05);}R(x+2,y+C*0.12,C*0.12,C*0.56,'#d8a870');});}
+  if(row.type==='road'){row.objs.forEach(function(o){var x=sxp(o.x)-C/2,w=o.w*C,dir=row.speed>0;g.fillStyle='rgba(0,0,0,.25)';g.fillRect(x+4,y+C*0.7,w-4,C*0.2);
+    if(o.w>2){block(x+3,y+C*0.25,w-6,C*0.55,C*0.5,shade(o.col,0.3),shade(o.col,-0.25));block(dir?x+w-C*0.75:x+3,y+C*0.25,C*0.72,C*0.55,C*0.62,o.col,shade(o.col,-0.35));R(dir?x+w-C*0.35:x+C*0.12,y+C*0.25-C*0.55,C*0.2,C*0.24,'#bfe8ff');}
+    else{block(x+3,y+C*0.25,w-6,C*0.55,C*0.3,o.col,shade(o.col,-0.35));block(x+w*(dir?0.2:0.35),y+C*0.25,w*0.45,C*0.45,C*0.5,shade(o.col,0.15),shade(o.col,-0.25));R(x+w*(dir?0.55:0.37),y+C*0.25-C*0.48,w*0.08,C*0.3,'#bfe8ff');}
+    R(x+w*0.12,y+C*0.75,C*0.2,C*0.12,'#222');R(x+w*0.88-C*0.2,y+C*0.75,C*0.2,C*0.12,'#222');R(dir?x+w-6:x+3,y+C*0.38,3,C*0.12,'#ffe9a0');});}
+  if(row.type==='rail'){var warn=!row.tr.on&&row.tt<1.4,px=sxp(-HALF-0.5)-C*0.35;R(px,y-C*0.55,C*0.08,C*1.1,'#555');R(px-C*0.12,y-C*0.7,C*0.32,C*0.22,'#222');R(px-C*0.08,y-C*0.66,C*0.24,C*0.14,warn&&(Math.floor(t*8)%2)?'#ff3a3a':'#5a2020');
+    if(warn&&(Math.floor(t*8)%2)){g.fillStyle='rgba(255,60,60,.12)';g.fillRect(0,y,W,C);}
+    if(row.tr.on){var tx=sxp(row.tr.x)-C/2,tw=row.tr.w*C;g.fillStyle='rgba(0,0,0,.25)';g.fillRect(tx,y+C*0.75,tw,C*0.2);block(tx+2,y+C*0.2,tw-4,C*0.6,C*0.62,'#f4f4f4','#e8483a');g.fillStyle='#bfe8ff';for(var wx=tx+C*0.3;wx<tx+tw-C*0.5;wx+=C*0.7)g.fillRect(wx,y+C*0.2-C*0.3,C*0.4,C*0.2);R(tx+2,y+C*0.6,tw-4,C*0.06,'#fff');}}
+  if(row.coin!==undefined){var cx=sxp(row.coin),cy=y+C*0.45-Math.sin(t*4+r)*C*0.06,cw=C*0.32*Math.abs(Math.cos(t*3+r));g.fillStyle='rgba(0,0,0,.15)';g.fillRect(cx-C*0.16,y+C*0.7,C*0.32,C*0.08);R(cx-cw/2,cy-C*0.16,cw,C*0.32,'#ffd23a');R(cx-cw/2,cy+C*0.12,cw,C*0.06,'#c88a10');if(cw>C*0.1)R(cx-cw*0.15,cy-C*0.08,cw*0.3,C*0.16,'#fff6b0');}}
+function drawPlayer(){if(pl.dead&&deathKind==='eagle'&&eagleT>0.45)return;var k=pl.hop,yr=pl.dead&&deathKind==='water'?pl.r:pl.y,x=sxp(pl.x)-C/2,y=syp(yr)-C/2,jump=k>0?Math.sin((1-k)*Math.PI)*C*0.38:0;
+  var sq=k>0?1+0.18*Math.sin((1-k)*Math.PI):1-0.18*pl.land;if(pl.dead&&(deathKind==='car'||deathKind==='train'))sq=0.22;if(pl.dead&&deathKind==='water'){g.globalAlpha=Math.max(0,0.6-eagleT);}
+  if(pl.dead&&deathKind==='eagle')y-=Math.max(0,eagleT-0.3)*H*1.5;
+  g.fillStyle='rgba(0,0,0,.2)';g.beginPath();g.ellipse(x+C/2,syp(yr)-C/2+C*0.8,C*0.32*(1-jump/C*0.8),C*0.1,0,0,7);g.fill();
+  drawChar(sel,x,y-jump,C,pl.dir,sq);g.globalAlpha=1;}
+function draw(){var sh=shake>0?(Math.random()-0.5)*shake*30:0;g.setTransform(DPR,0,0,DPR,sh*DPR,sh*0.6*DPR);R(-20,-20,W+40,H+40,'#7ad06a');if(!pl)return;
+  var rTop=Math.ceil(camRow+H*0.68/C+2),rBot=Math.floor(camRow-(H*0.32)/C-2),pr=Math.round(pl.dead&&deathKind==='water'?pl.r:pl.y);
+  for(var r=rTop;r>=rBot;r--){makeRow(r);drawGround(r);}
+  for(var r1=rTop;r1>=rBot;r1--)drawEdges(r1);
+  if(best>2&&best<rTop&&best>rBot){var by=syp(best)-C/2;g.fillStyle='rgba(255,255,255,.7)';for(var bx=0;bx<W;bx+=24)g.fillRect(bx,by-2,12,4);g.font='900 '+Math.round(C*0.28)+'px Rubik,sans-serif';g.textAlign='right';g.fillText(TX.best,W-10,by-8);}
+  for(var r2=rTop;r2>=rBot;r2--){drawObjs(r2);if(r2===pr)drawPlayer();}
+  if(pr>rTop||pr<rBot)drawPlayer();
+  FX.forEach(function(f){var a=Math.min(1,f.l*2);g.globalAlpha=a;if(f.ring){var rr=C*(0.9-f.l)*0.9;g.strokeStyle='#fff';g.lineWidth=3;g.beginPath();g.ellipse(sxp(f.x),syp(f.y),rr,rr*0.45,0,0,7);g.stroke();}
+    else if(f.txt){g.font='900 '+Math.round(C*0.4)+'px Rubik,sans-serif';g.textAlign='center';g.lineWidth=4;g.strokeStyle='#a86a10';g.strokeText(f.txt,sxp(f.x),syp(f.y));g.fillStyle='#ffe14a';g.fillText(f.txt,sxp(f.x),syp(f.y));}
+    else{g.fillStyle=f.c;g.fillRect(sxp(f.x)-f.s/2,syp(f.y)-f.s/2,f.s,f.s);}});g.globalAlpha=1;
+  if(pl.dead&&deathKind==='eagle'){var ek=Math.min(1,eagleT/0.45),ex=sxp(pl.x),ey=syp(pl.r)-C*0.3-H*(1-ek)*0.9-Math.max(0,eagleT-0.3)*H*1.5,fl=Math.sin(t*20)*C*0.3;g.fillStyle='#6a4428';g.beginPath();g.moveTo(ex-C*1.6,ey+fl);g.lineTo(ex-C*0.3,ey-C*0.3);g.lineTo(ex+C*0.3,ey-C*0.3);g.lineTo(ex+C*1.6,ey+fl);g.lineTo(ex,ey+C*0.4);g.closePath();g.fill();R(ex-C*0.25,ey-C*0.65,C*0.5,C*0.42,'#fff');R(ex-C*0.08,ey-C*0.3,C*0.18,C*0.14,'#ffd23a');R(ex-C*0.15,ey-C*0.52,C*0.08,C*0.08,'#222');R(ex+C*0.08,ey-C*0.52,C*0.08,C*0.08,'#222');}
+  g.setTransform(DPR,0,0,DPR,0,0);
+  if(state!=='title'){var fs=Math.round(Math.min(56,Math.max(40,W*0.11))),hy=Math.max(58,fs+10);g.font='900 '+fs+'px Rubik,sans-serif';g.textAlign='left';g.lineWidth=6;g.strokeStyle='rgba(0,0,0,.35)';g.strokeText(String(score),16,hy);g.fillStyle='#fff';g.fillText(String(score),16,hy);
+    g.font='800 15px Rubik,sans-serif';g.lineWidth=4;g.strokeText('★ '+TX.best+' '+best,18,hy+24);g.fillText('★ '+TX.best+' '+best,18,hy+24);
+    g.font='900 24px Rubik,sans-serif';g.textAlign='right';g.strokeText(String(coins),W-16,hy-14);g.fillText(String(coins),W-16,hy-14);var cw2=g.measureText(String(coins)).width;R(W-16-cw2-26,hy-34,20,20,'#c88a10');R(W-16-cw2-24,hy-32,16,16,'#ffd23a');}}
+function objAt(row,x){for(var i=0;i<row.objs.length;i++){var o=row.objs[i];if(x>o.x-0.5+0.12&&x<o.x-0.5+o.w-0.12)return o;}return null;}
+function tick(dt){t+=dt;shake=Math.max(0,shake-dt);FX.forEach(function(f){f.l-=dt;if(!f.ring){f.x+=(f.vx||0)*dt;f.y+=(f.vy||0)*dt;}});FX=FX.filter(function(f){return f.l>0;});if(!pl)return;
+  for(var r=Math.floor(camRow-8);r<camRow+18;r++){var row=rows[r];if(!row)continue;
+    if(row.objs&&row.speed){row.objs.forEach(function(o){o.x+=row.speed*dt;var sp=span();if(row.speed>0&&o.x-0.5>VH+3)o.x-=sp;if(row.speed<0&&o.x-0.5+o.w<-VH-3)o.x+=sp;});}
+    if(row.type==='rail'){var tr=row.tr;if(!tr.on){var was=row.tt;row.tt-=dt;if(was>=1.4&&row.tt<1.4&&Math.abs(r-pl.r)<7&&state==='play'){tone(700,0.12,'square',0.03,1);setTimeout(function(){tone(700,0.12,'square',0.03,1);},250);}if(row.tt<=0){tr.on=true;tr.x=row.dir>0?-VH-3-tr.w:VH+3.5;}}
+      else{tr.x+=row.dir*24*dt;if((row.dir>0&&tr.x-0.5>VH+3)||(row.dir<0&&tr.x-0.5+tr.w<-VH-3)){tr.on=false;row.tt=2.5+Math.random()*4;}}}}
+  pl.land=Math.max(0,pl.land-dt*6);
+  if(pl.dead){eagleT+=dt;return;}if(state!=='play')return;
+  if(pl.hop>0){pl.hop=Math.max(0,pl.hop-dt/0.11);var e=1-pl.hop;pl.x=pl.fx+(pl.c-pl.fx)*e;pl.y=pl.fy+(pl.r-pl.fy)*e;if(pl.hop===0){pl.y=pl.r;pl.x=pl.c;landed();if(state!=='play')return;}}
+  var cur=makeRow(pl.r);
+  if(pl.hop===0&&cur.type==='water'){var o=objAt(cur,pl.x);if(!o){die('water');return;}if(o.pad){pl.x=o.x;pl.c=o.x;}else{pl.x+=cur.speed*dt;pl.c=pl.x;}if(pl.x<-HALF-0.6||pl.x>HALF+0.6){die('water');return;}}
+  if(cur.type==='road'&&pl.hop<0.5){for(var i=0;i<cur.objs.length;i++){var ob=cur.objs[i];if(pl.x>ob.x-0.5-0.28&&pl.x<ob.x-0.5+ob.w+0.28-0.56+0.28){die('car');return;}}}
+  if(cur.type==='rail'&&pl.hop<0.5&&cur.tr.on){if(pl.x>cur.tr.x-0.8&&pl.x<cur.tr.x-0.5+cur.tr.w+0.3){die('train');return;}}
+  var target=pl.r-1;camRow+=(Math.max(target,camRow)-camRow)*Math.min(1,dt*4);camRow+=dt*Math.min(0.5,0.22+score/400);if(pl.r<camRow-3.3){die('eagle');}}
 var last=performance.now();function frame(now){var dt=Math.min(0.05,(now-last)/1000);last=now;tick(dt);draw();cgSync();requestAnimationFrame(frame);}
-fit();requestAnimationFrame(frame);
+fit();showCoins();reset();state='title';requestAnimationFrame(frame);
 </script>
 </body>
 </html>
